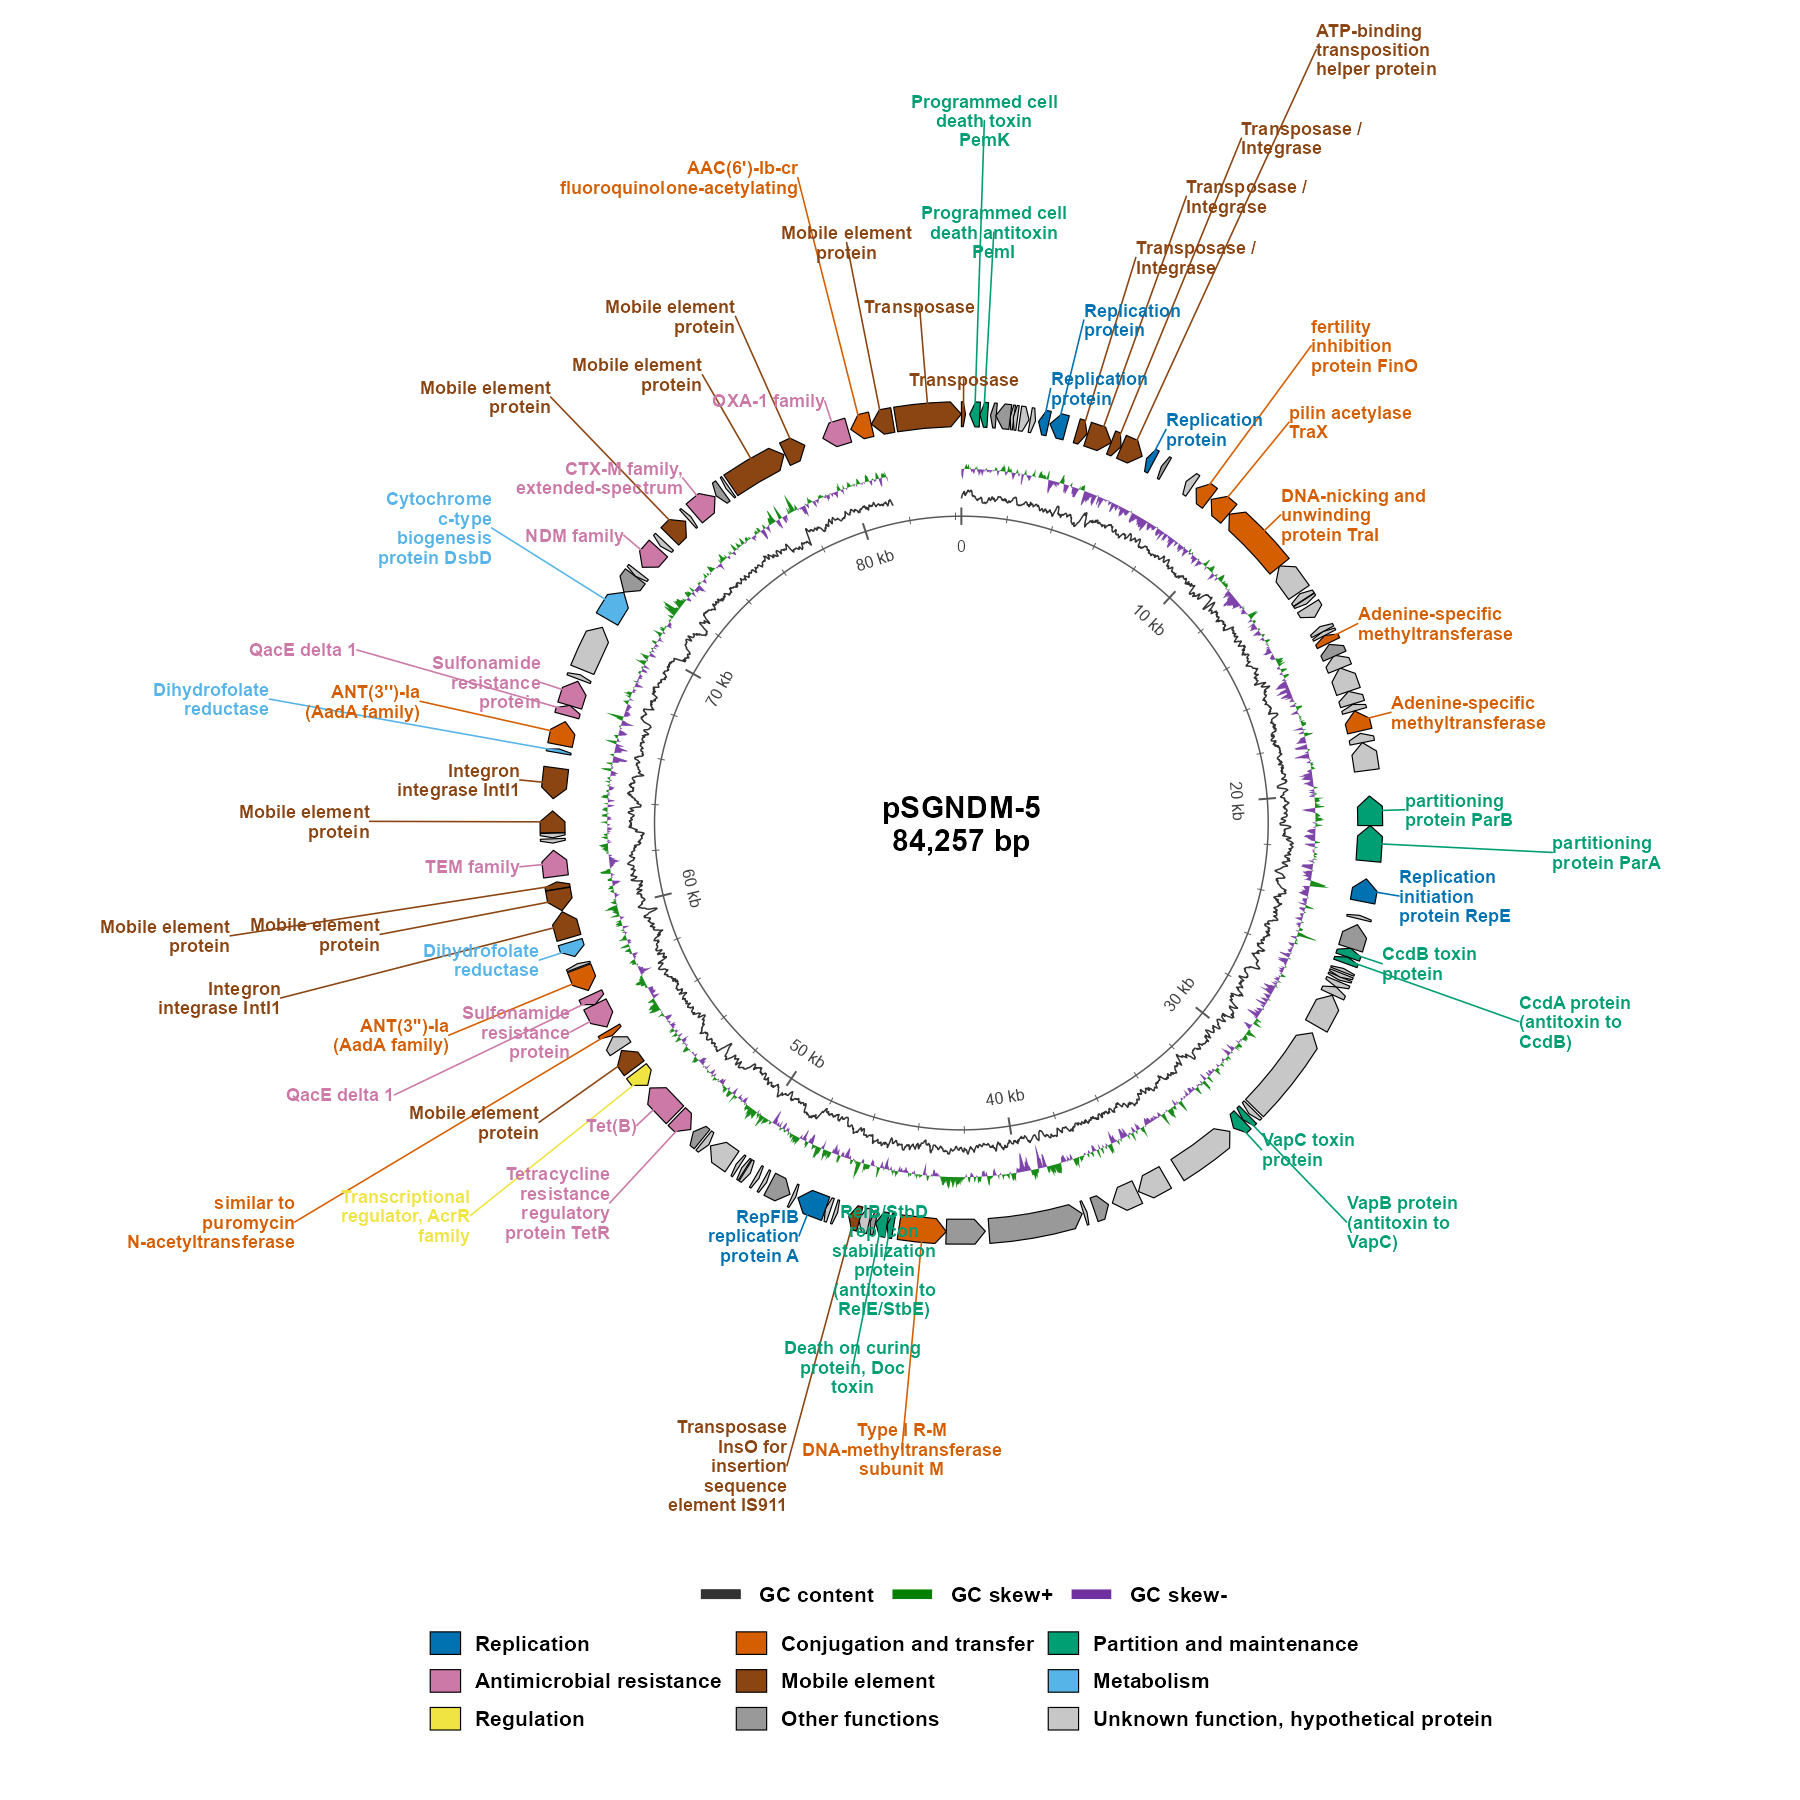
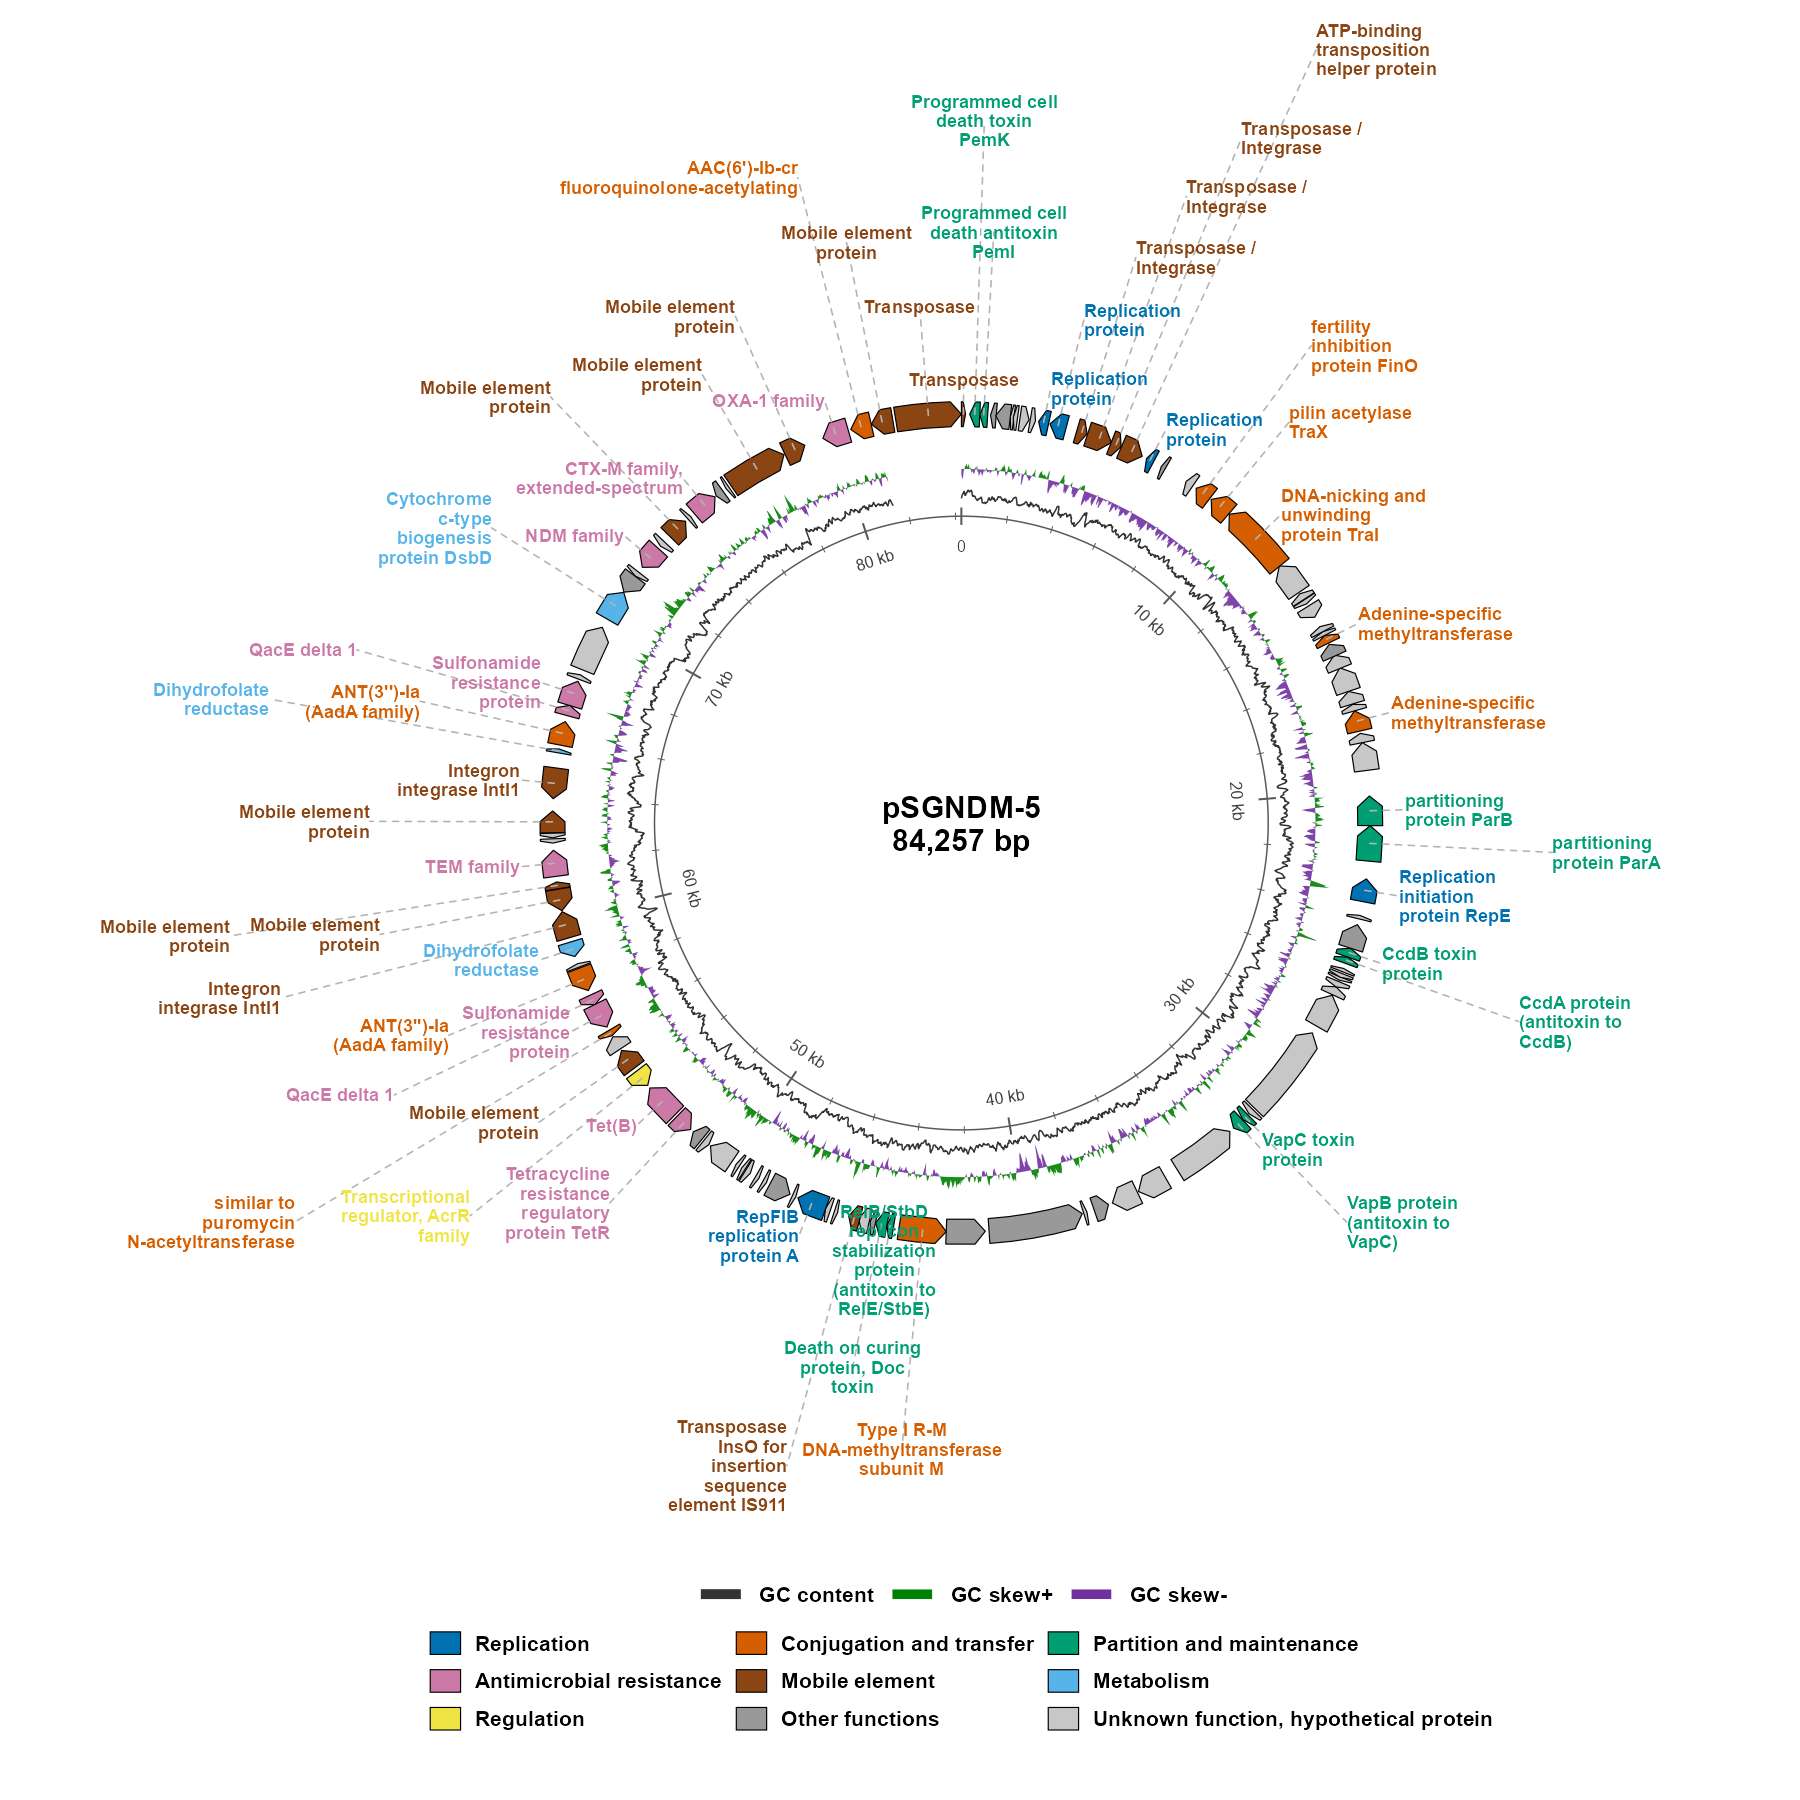
Use dashed grey label leader lines

Changed region(s): [[0.6222, 0.1867, 0.6533, 0.2178], [0.2489, 0.4978, 0.28, 0.5289]]

diff --git a/README.md b/README.md
@@ -60,7 +60,8 @@ ggplasmid(
   label_text_size = 3.0,                        # label font size
   label_anchor_radius = 1.12,                   # push labels a little away from the ring
   label_text_colour = "category",               # color label text by feature category
-  label_line_colour = "category",               # color leader lines by feature category
+  label_line_colour = "grey70",                 # neutral grey leader lines
+  label_line_linetype = "dashed",               # dashed leader lines
   legend_position = "bottom",                   # place legends below the map
   legend_columns = 3,                           # feature-color legend columns
   gc_legend_columns = 3,                        # GC legend in one row
@@ -243,6 +244,8 @@ ggplasmid(
   label_text_size = 3.4,            # label font size
   label_anchor_radius = 1.12,       # starting distance for outside labels
   label_text_colour = "category",   # "category" or a fixed color such as "black"
+  label_line_colour = "grey70",     # leader line color
+  label_line_linetype = "dashed",   # leader line style
   legend_position = "bottom",       # "right", "bottom", "left", "top", or "none"
   legend_columns = 3,               # feature-color legend columns
   gc_legend_columns = 3             # GC legend columns; 3 gives one row
